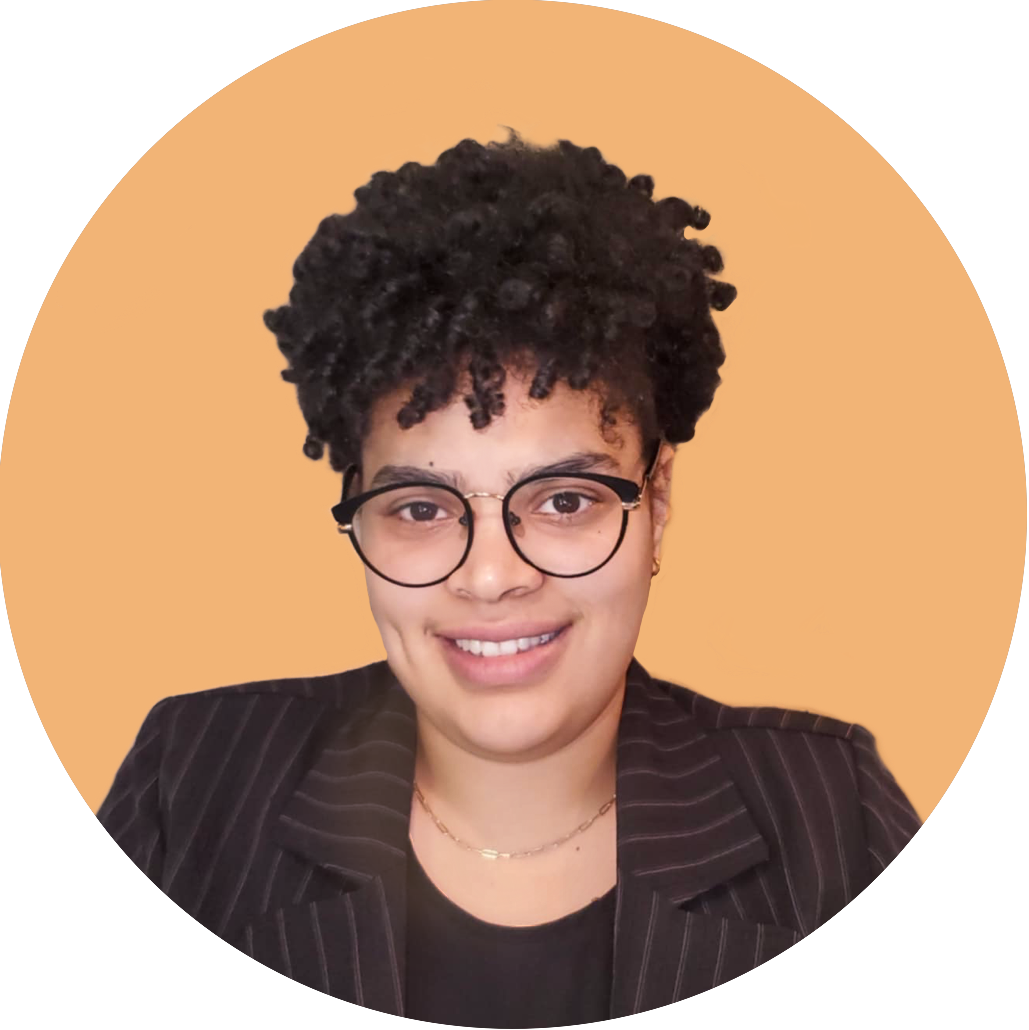
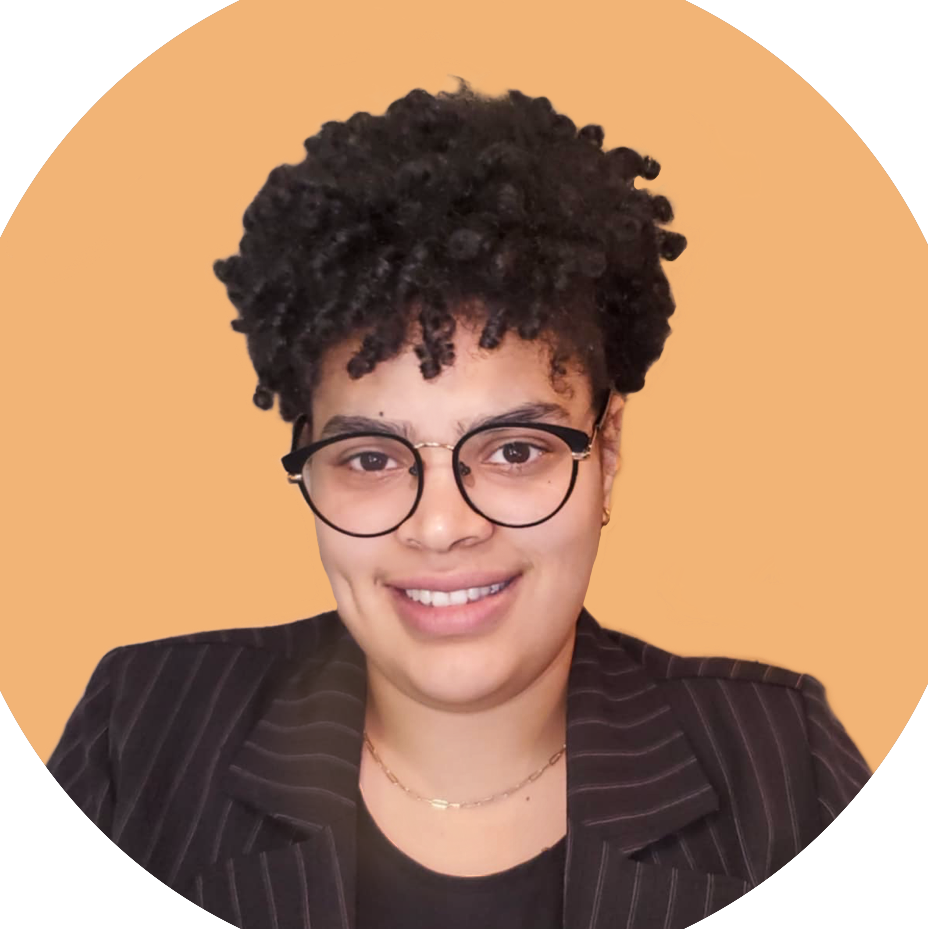
adjusted home page formating

diff --git a/Hobbies/Hobbies.html b/Hobbies/Hobbies.html
@@ -22,7 +22,7 @@
             <div id = "webDesignDiv">
                     <div class="gridBox"> 
                         <!-- <a href="#"> -->
-                        <img class="preview" src="../Hobbies/icons/WebDesignIcon.jpg">
+                        <img class="preview" src="../Hobbies/icons/WebDesignIconFull.jpg">
                         <!-- <div class = "caption">
                             Web Design
                         </div> -->
@@ -32,7 +32,7 @@
             <div id = "artDiv">
                <div class="gridBox">
                 <!-- <a href="../Hobbies/DigitalArtFolder/DigtialVisualArts.html"> -->
-                        <img class="preview" src="../Hobbies/icons/VisualArtsIcon.jpg">
+                        <img class="preview" src="../Hobbies/icons/Visua;ArtsIconFull.jpg">
                         <!-- <div class = "caption">
                             Visual and Digital Art -->
                         </div>
@@ -42,7 +42,7 @@
         <div id = "natureDiv">
                 <div class="gridBox">
                     <!-- <a href="#"> -->
-                        <img class="preview" src="../Hobbies/icons/NatureIcon.jpg">
+                        <img class="preview" src="../Hobbies/icons/natureIconFull.jpg">
                     <!-- <div class = "caption">
                         Enjoying Nature
                     </div> -->

diff --git a/style.css b/style.css
@@ -115,6 +115,8 @@ ul{ width:100;
     display: flex;
     flex-direction:row;
     justify-content: center;
+
+    
     /* border: 5px rgb(255, 0, 0) solid; */
 
 }
@@ -129,13 +131,21 @@ ul{ width:100;
     margin-right: 5vh;
     /* border: 5px rgb(128, 0, 79) solid;    */
 }
-
-.headshot{
+.headshotBox{
+    margin-top:2%;
     height: 200px;
     width: 200px;
     border-radius: 50%;
-    border: 5px solid black;
-    /* border: 5px rgb(255, 0, 153) solid; */
+    object-fit: contain;
+}
+
+.headshot{
+    height: 210px;
+    width: 210px;
+    border-radius: 50%;
+    object-fit: contain;
+    border: #000000 solid 5px;
+ 
 }
 .brief{
     background-color: #92412e;

diff --git a/Hobbies/HobbiesStyle.css b/Hobbies/HobbiesStyle.css
@@ -37,7 +37,8 @@ ul{ width:100;
 }
 
 .preview{
-    object-fit:fill;
+    object-fit:cover;
+    height: 70vh;
 }
 li{
     display: inline-flex;
@@ -45,12 +46,17 @@ li{
 .grid{
     display: flex;
     justify-content:space-evenly;
-    border: #000000 solid 5px;
+    border: #882626 solid 5px;
 }
 .gridBox{
-    margin: 0 0 0 0;
-    padding: 0%;
-    height: 50vh;
-    width: 50vh;
+    box-shadow: 3px 3px 0 0  #92412e,
+         7px 7px 0 0 black;
+        transition-duration: 200ms;
+    height: 70vh;
     border: #000000 solid 5px;
+}
+
+.gridBox:hover{
+    box-shadow: 3px 3px #92412e, 9px 9px 0 0 black;
+    transform: translate(-2px,-2px);
 }

diff --git a/index.html b/index.html
@@ -42,10 +42,11 @@
             <p class="brief">My name is Yarenis Sanchez but I go by my middle name Maya. I am an aspiring front-end developer and graphic designer. Take a look at the links above to learn more about my work experience, hobbies and where to contact me. 
              </p>
             </div>
+            <div class="headshotBox">
         <img class="headshot" src="./assets/headshots/Headshot.updates (4).png"
-                height="600"
                 alt="Picture of hispanic young woman">
-        </div>
+       
+             </div>
     </div>
 </div>
 
